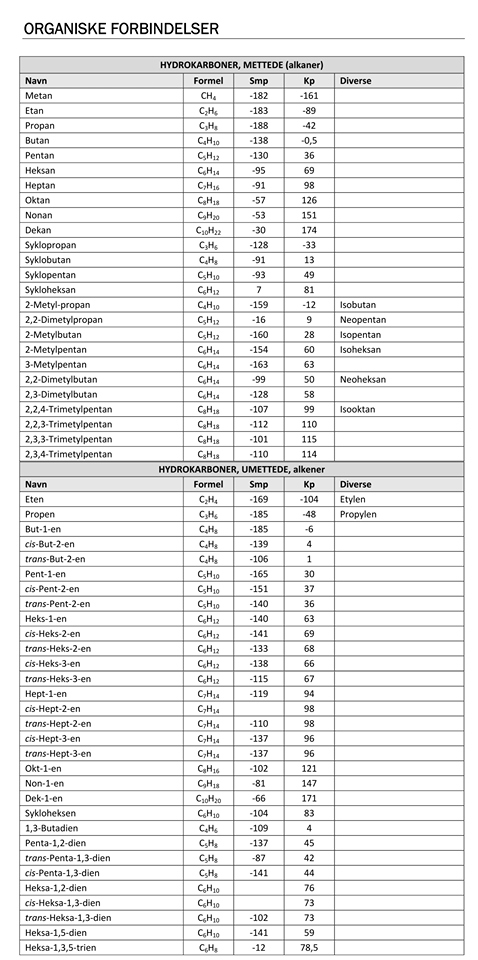
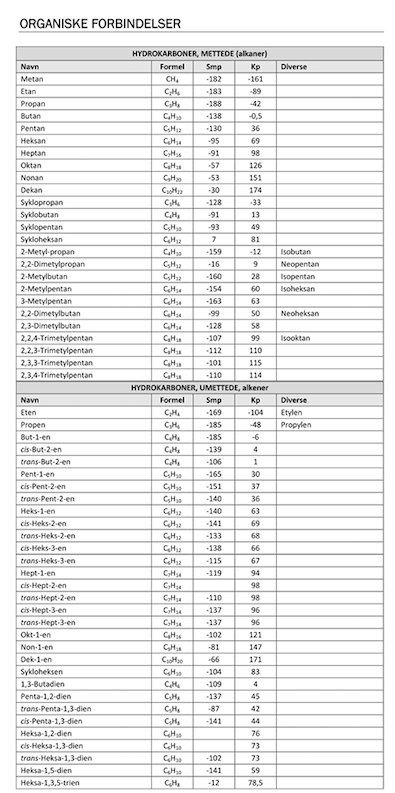
many changes

diff --git a/src/containers/Playground/CallToAction/index.js b/src/containers/Playground/CallToAction/index.js
@@ -1,0 +1,54 @@
+/**
+ * React-Native `<Text />` component does not scale the text based on the device size.
+ * This component does, and it also provides a nice interface for using custom fonts and style.
+ */
+import React, { Component } from 'react';
+import { View, Text } from 'react-native';
+import Button from 'apsl-react-native-button';
+import { inject, observer } from 'mobx-react/native';
+import Overlay from 'react-native-modal-overlay';
+import styles from './index.style';
+
+class CallToAction extends Component {
+  render() {
+    return (
+      <Overlay
+        visible={this.props.visible}
+        closeOnTouchOutside
+        animationType="zoomIn"
+        containerStyle={styles.container}
+        childrenWrapperStyle={styles.overlayWrapper}
+        animationDuration={500}
+        onClose={() => this.props.onClose()}
+      >
+        <View style={styles.explanationWrapper}>
+          <View style={styles.wrapper}>
+            <View style={styles.headerWrapper}>
+              <Text style={styles.header}>Lei av reklame?</Text>
+            </View>
+            <Text style={styles.text}>
+              Støtt et lite selskap på tre kamerater som har laget denne appen på fritiden
+              ved å kjøpe fullversjonen. Da forsvinner reklamen
+              og alle spørsmålene i faget blir låst opp!
+            </Text>
+            <Text style={styles.text}>
+              Vi hadde satt utrolig pris på det☺
+            </Text>
+            <View styles={styles.buttonWrapper}>
+              <Button onPress={() => this.props.navigateToSubscription()} style={styles.button}>
+                <Text style={styles.buttonText}>Ja!</Text>
+              </Button>
+              <Button onPress={() => this.props.onClose()} style={styles.button}>
+                <Text style={styles.buttonText}>Ellers takk</Text>
+              </Button>
+            </View>
+          </View>
+        </View>
+      </Overlay>
+    );
+  }
+}
+
+export default inject(allStores => ({
+  navigateToSubscription: allStores.router.navigateToSubscription,
+}))(observer(CallToAction))

diff --git a/src/containers/Playground/index.js b/src/containers/Playground/index.js
@@ -18,6 +18,7 @@ import audioService from '../../services/audio';
 import ProgressBar from './ProgressBar';
 import Footer from './Footer';
 import env from '../../config/env';
+import CallToAction from './CallToAction';
 
 class Playground extends Component {
   _questionRef = null;
@@ -25,7 +26,10 @@ class Playground extends Component {
 
   constructor(props) {
     super(props);
-    this.state = { isLevelUp: false };
+    this.state = {
+      isLevelUp: false,
+      showBuy: false,
+    };
   }
 
   componentDidMount() {
@@ -41,6 +45,7 @@ class Playground extends Component {
       } else {
         AdMobInterstitial.setAdUnitID('ca-app-pub-4545695212875309/4479049379');
       }
+      const dropdown = this.dropdown;
       AdMobInterstitial.requestAd()
         .then(() => AdMobInterstitial.showAd())
         .catch(error => {
@@ -52,7 +57,6 @@ class Playground extends Component {
             audioService.playFailureSound();
           }
         });
-      const dropdown = this.dropdown;
       AdMobInterstitial.addEventListener('adClosed', () => {
         if (this.props.isCorrectAnswer) {
           dropdown.alertWithType('success', 'Riktig 😀', '');
@@ -90,6 +94,9 @@ class Playground extends Component {
     }
     if (!nextProps.isLevelUp && this.state.isLevelUp) {
       this.setState({ isLevelUp: false });
+    }
+    if (this.props.isAdTime && new Date().getSeconds() % 2 === 0) {
+      this.setState({ showBuy: true });
     }
   }
 
@@ -156,6 +163,10 @@ class Playground extends Component {
               level={this.props.level}
               onClose={() => this.setState({ isLevelUp: false })}
               key={currentQuestion.id}
+            />
+            <CallToAction
+              visible={this.state.showBuy}
+              onClose={() => this.setState({ showBuy: false })}
             />
           </View>
           <Footer dialog={this.popupDialog} />

diff --git a/src/containers/Playground/CallToAction/index.style.js b/src/containers/Playground/CallToAction/index.style.js
@@ -1,0 +1,66 @@
+import { StyleSheet } from 'react-native';
+import metrics from '../../../config/metrics';
+
+const width = metrics.DEVICE_WIDTH * 0.82;
+const height = metrics.DEVICE_HEIGHT * 0.80;
+
+export default StyleSheet.create({
+  container: {
+    backgroundColor: 'rgba(0, 0, 0, 0.5)',
+    alignItems: 'center',
+  },
+  overlayWrapper: {
+    backgroundColor: '#3498db',
+    borderRadius: 20,
+    padding: 10,
+    width: width,
+    height: height,
+  },
+  explanationWrapper: {
+    flexDirection: 'column',
+  },
+  wrapper: {
+    flexDirection: 'row',
+    alignItems: 'flex-start',
+    flexWrap: 'wrap',
+    justifyContent: 'center',
+    borderRadius: 20,
+    paddingLeft: 5,
+    paddingRight: 5,
+    width: width,
+    height: height,
+  },
+  headerWrapper: {
+    width: metrics.DEVICE_WIDTH * 0.80,
+  },
+  header: {
+    fontFamily: 'Permanent Marker',
+    color: 'white',
+    fontSize: 20,
+    textAlign: 'center',
+  },
+  text: {
+    color: 'white',
+    //fontWeight: 'bold',
+    fontFamily: 'Raleway-Regular',
+    fontSize: 18,
+    marginBottom: 1,
+  },
+  button: {
+    backgroundColor: 'transparent',
+    borderColor: 'white',
+    height: 30,
+    width: width - 40,
+  },
+  buttonText: {
+    color: 'white',
+    fontFamily: 'Raleway-Regular',
+    fontSize: 13,
+  },
+  buttonWrapper: {
+    marginTop: 10,
+    flexDirection: 'column',
+    alignSelf: 'stretch',
+    justifyContent: 'center',
+  },
+});

diff --git a/src/containers/Endgame/index.js b/src/containers/Endgame/index.js
@@ -1,7 +1,7 @@
 /**
  * Sample React Native App
  * https://github.com/facebook/react-native
- * 
+ *
  */
 
 import React, { Component } from 'react';
@@ -11,6 +11,7 @@ import { inject, observer } from 'mobx-react/native';
 import Button from 'apsl-react-native-button';
 import style from './index.style';
 import audioService from '../../services/audio';
+import * as StoreReview from 'react-native-store-review';
 
 class Endgame extends Component {
   _headerRef;
@@ -31,11 +32,16 @@ class Endgame extends Component {
         LayoutAnimation.spring();
         this.setState({ hasHeaderAppeared: true });
         audioService.initSounds();
+        // This API is only available on iOS 10.3 or later
+
       });
     }
   }
 
   componentWillUnmount() {
+    if (StoreReview.isAvailable) {
+      StoreReview.requestReview();
+    }
     this.props.resetGame();
   }
 

diff --git a/src/questions/kjemi2/tables.js b/src/questions/kjemi2/tables.js
@@ -18,7 +18,7 @@ const tables = [
         zoom: 1.5,
     },
     {
-        name: '1-H-NMR data',
+        name: 'H-NMR-data',
         src: table2,
         zoom: 1.2,
     },
@@ -33,17 +33,17 @@ const tables = [
         zoom: 1.5,
     },
     {
-        name: 'Organisk 1',
+        name: 'Organisk kp og smp',
         src: table5,
-        zoom: 1.5,
+        zoom: 1,
     },
     {
-        name: 'Organisk 2',
+        name: 'Organisk kp og smp 2',
         src: table6,
         zoom: 1.5,
     },
     {
-        name: 'Organisk 3',
+        name: 'Organisk kp og smp 3',
         src: table7,
         zoom: 1.5,
     },

diff --git a/src/components/Tables/index.js b/src/components/Tables/index.js
@@ -79,8 +79,8 @@ export default class Tables extends Component {
           <View style={styles.imageWrapper}>
             <PhotoView style={{backgroundColor: 'white'}}
               source={this.state.image}
-              minimumZoomScale={this.state.zoom}
-              scale={0.9}
+              minimumZoomScale={1}
+              scale={this.state.zoom}
               maximumZoomScale={6}
               style={{width: imageWidth, height: imageHeight}} />
           </View>

diff --git a/src/questions/kjemi2/questionImages.js b/src/questions/kjemi2/questionImages.js
@@ -40,16 +40,17 @@ const images =
     {
       id: '34ac2fc7-515e-87b1-f845-7d5486e925c2',
       image: '1A',
-      src: oneA
+      src: oneA,
     },
     {
       id: 'ab64b318-df0b-3d31-d7d2-a1cae18b97b3',
       image: '1B',
-      src: oneB
+      src: oneB,
     },
     {
       id: 'dc5c690d-feda-b80c-b654-2b8e529df49b',
       image: '1C',
+      src: oneC,
     },
     {
       id: 'efbb162f-b390-d57e-b250-bfd679d1c594',

diff --git a/src/stores/subscription.js b/src/stores/subscription.js
@@ -48,9 +48,9 @@ class SubscriptionStore {
         });
       }
     }
-    if (env.IS_ENV_DEVELOPMENT) {
-      this.hasSubscription = true;
-    }
+    // if (env.IS_ENV_DEVELOPMENT) {
+    //   this.hasSubscription = true;
+    // }
   }
 
   restore = async () => {
